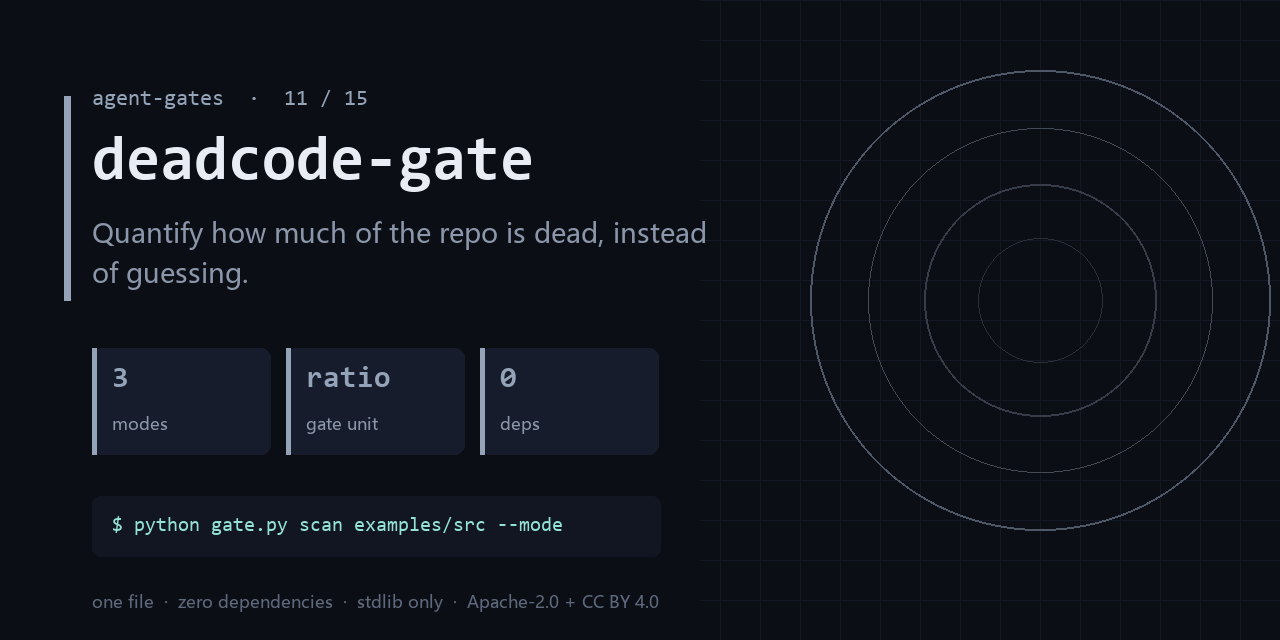
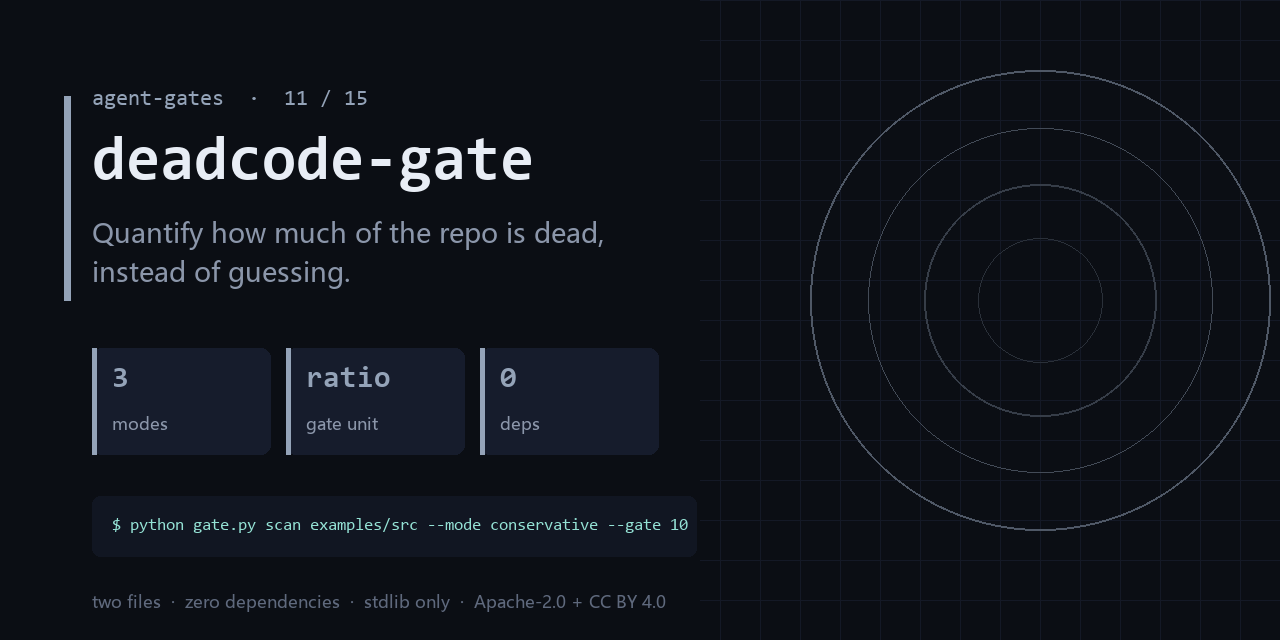
docs: add the series entry map, the hot-ready guarantee, and an honest surface line
Three changes, all of them about not overselling:

1. `## Start here` — fifteen links is a maze, one symptom is a door. A six-row
   symptom -> gate table, so the reader installs the gate they need instead of
   installing nothing (or all fifteen). Also states the star rule plainly:
   no exchange, no unlock, star trading is against GitHub's rules.
2. `## Hot-ready guarantee` — replaces "guaranteed to trend" with fifteen
   machine-checked structural properties, current score, and the script that
   recomputes them. GitHub never published its Trending ranking, so a promise
   about ranking cannot be true; a promise about structure can be verified.
3. The subtitle said `one file` on every repo. It was false on four of them
   (output-gate has 7 python files, complexity-ceiling 3, deadcode-gate and
   trail-gate 2). The line is now computed from the actual file count, and the
   same number is used on the social card. A false claim on the first screen
   costs more trust than it buys attention.

diff --git a/README.md b/README.md
@@ -4,7 +4,7 @@
 
 <h1 align="center">deadcode-gate</h1>
 
-<p align="center"><b>Quantify how much of the repo is dead, instead of guessing.</b><br><sub>one file · zero dependencies · stdlib only</sub></p>
+<p align="center"><b>Quantify how much of the repo is dead, instead of guessing.</b><br><sub>two files · zero dependencies · stdlib only</sub></p>
 
 <p align="center"><a href="https://github.com/chenhz01/deadcode-gate/actions/workflows/gate.yml"><img src="https://github.com/chenhz01/deadcode-gate/actions/workflows/gate.yml/badge.svg" alt="tests"></a> <img src="https://img.shields.io/badge/python-3.9%2B-3776AB?style=flat-square" alt="python"> <img src="https://img.shields.io/badge/dependencies-0-2ea44f?style=flat-square" alt="deps"> <img src="https://img.shields.io/badge/license-Apache--2.0%20%2B%20CC%20BY%204.0-blue?style=flat-square" alt="license"></p>
 
@@ -102,6 +102,66 @@ mistaken for "it inspected my files".
 一行命令：`python gate.py scan examples/src --mode conservative --gate 10`
 
 边界：It cannot prove a symbol is unused — reflection, string dispatch, and plugins defeat any static tool.
+
+### 互推：只装一个的话，装哪个
+
+十五个链接是迷宫，一个症状是门。按上表挑一个，其余九个在下面 [The gates](#the-gates)。
+每个仓都能单独活：复制 `gate.py`，一条命令跑完，不共享运行时、不装包、不加配置。
+有星就给这一个，没有也不影响任何仓的可用性——没有任何门是「先给星才能用」。
+
+### 热门前置：保证结构，不保证排名
+
+本页承诺的是 **15 项可机器复核的结构特征**，当前 **15/15**（2026-10-20 复核）。
+GitHub 从未公开 Trending 的排序算法，所以任何「保证上热门」的说法都在描述一件它不可能知道的事；
+本仓不这么说。跑 `python hotness.py` 可自行复算每一条。
+
+## Start here (if you install only one)
+
+Fifteen links is a maze; one symptom is a door. Find your symptom, install that gate,
+ignore the rest until it hurts.
+
+| what you are seeing | install this |
+|---|---|
+| the bill is 10x normal and the trace is a wall of the same step | **[loop-gate](https://github.com/chenhz01/loop-gate)** |
+| the agent can delete prod and nobody signed off on that | **[permission-gate](https://github.com/chenhz01/permission-gate)** |
+| answers get worse after truncation and nobody knows what got dropped | **[context-gate](https://github.com/chenhz01/context-gate)** |
+| two rules in the prompt contradict each other; the model obeys neither | **[instruction-gate](https://github.com/chenhz01/instruction-gate)** |
+| AI text ships with fabricated links and empty phrases | **[output-gate](https://github.com/chenhz01/output-gate)** |
+| half the repo might be dead and nobody can prove which half | **deadcode-gate** ← you are here |
+
+A gate you did not need is a gate you uninstall, so nothing here says "install all
+fifteen". Each repo stands alone: copy `gate.py`, run one command, no shared runtime,
+no package manager, no config file to grow.
+
+**On stars.** If this one saved you an incident, star it — that is the only signal I get
+about which gate to build next. There is no exchange: starring one repo does not owe me
+a star on another, and no gate here is unlocked by a star. Star trading breaks GitHub's
+rules and would poison the single honest metric this project has.
+
+## Hot-ready guarantee
+
+What is guaranteed is **structure**, not ranking. Fifteen properties, each one
+machine-checked against this repo — current score **15/15** (2026-10-20).
+
+Plain version: instead of asking you to trust a badge, I list what I actually checked,
+name the script that checks it, and let you re-run it. If one of these lines is false,
+that is a bug in my repo, not a matter of taste.
+
+- Falsifiable side: `python hotness.py` re-runs every check and prints the evidence line
+  for each one. You do not have to trust this paragraph.
+- Non-falsifiable side: GitHub has never published how Trending sorts repositories, so
+  any repo promising you a guaranteed spot is telling you something it cannot know.
+  This one does not make that promise.
+- If a claim on this page stops being true, that is a bug: open an issue and it gets
+  fixed in the same week, not in the next launch.
+
+What actually carries this repo:
+
+- the command in this README is byte-for-byte the command CI runs <sub>(55-char argv, exact match)</sub>
+- the output block is a real run of `examples/`, not a mock-up <sub>(Real output section)</sub>
+- CI asserts the exit code, so the badge can turn red — and it has <sub>(asserts exit=1)</sub>
+- every fixture is committed, so a fresh clone reproduces the output <sub>(1 file under examples/ tracked in git)</sub>
+- `* -text` in `.gitattributes`: same bytes on Windows and Linux <sub>(.gitattributes * -text)</sub>
 
 ## The gates
 
